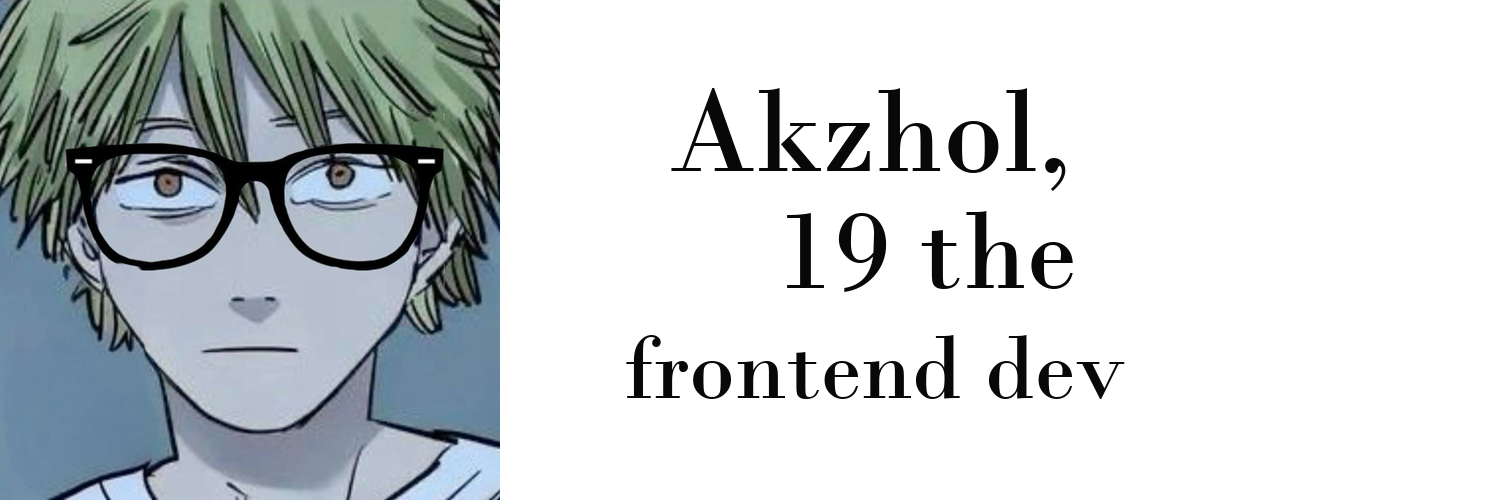
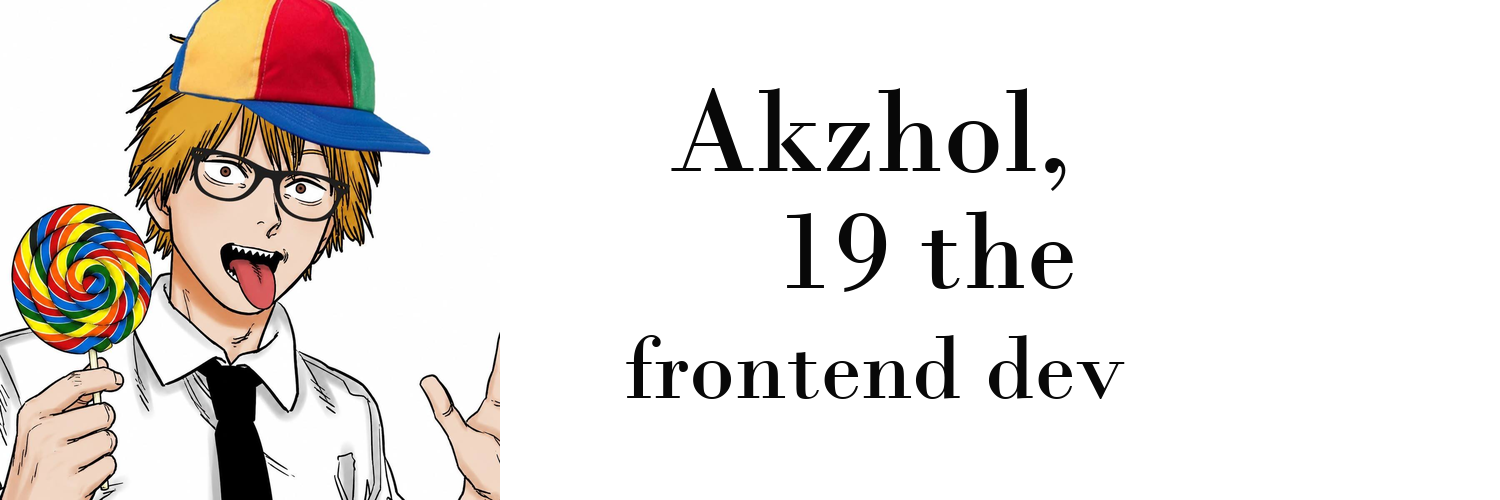
Update profile artwork and remove activity graph

diff --git a/README.md b/README.md
@@ -22,6 +22,3 @@ I'm Akzhol, a 19-year-old frontend developer. I build fast and clean interfaces 
 
 [![Top languages](https://github-readme-stats.vercel.app/api/top-langs/?username=illidan111&layout=compact&theme=github_dark&hide_border=true)](https://github.com/illidan111?tab=repositories)
 
-## activity
-
-[![GitHub activity graph](https://github-readme-activity-graph.vercel.app/graph?username=illidan111&theme=react-dark&hide_border=true)](https://github.com/illidan111)
